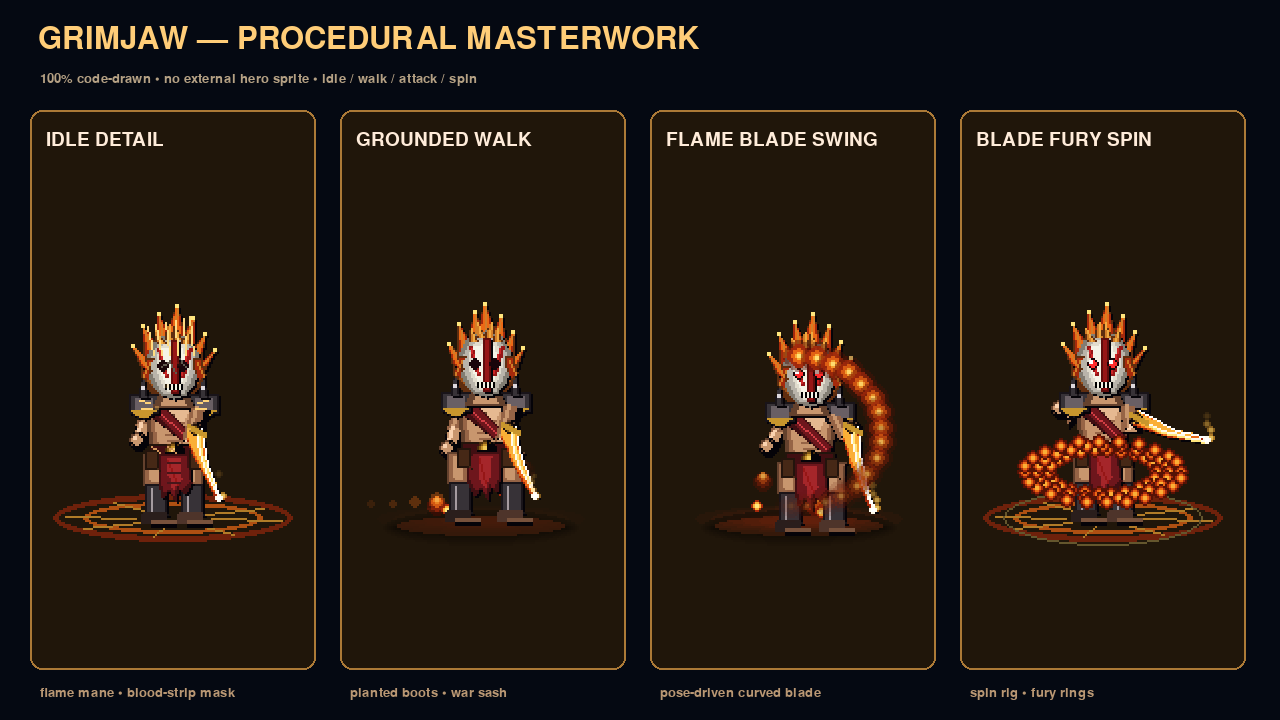
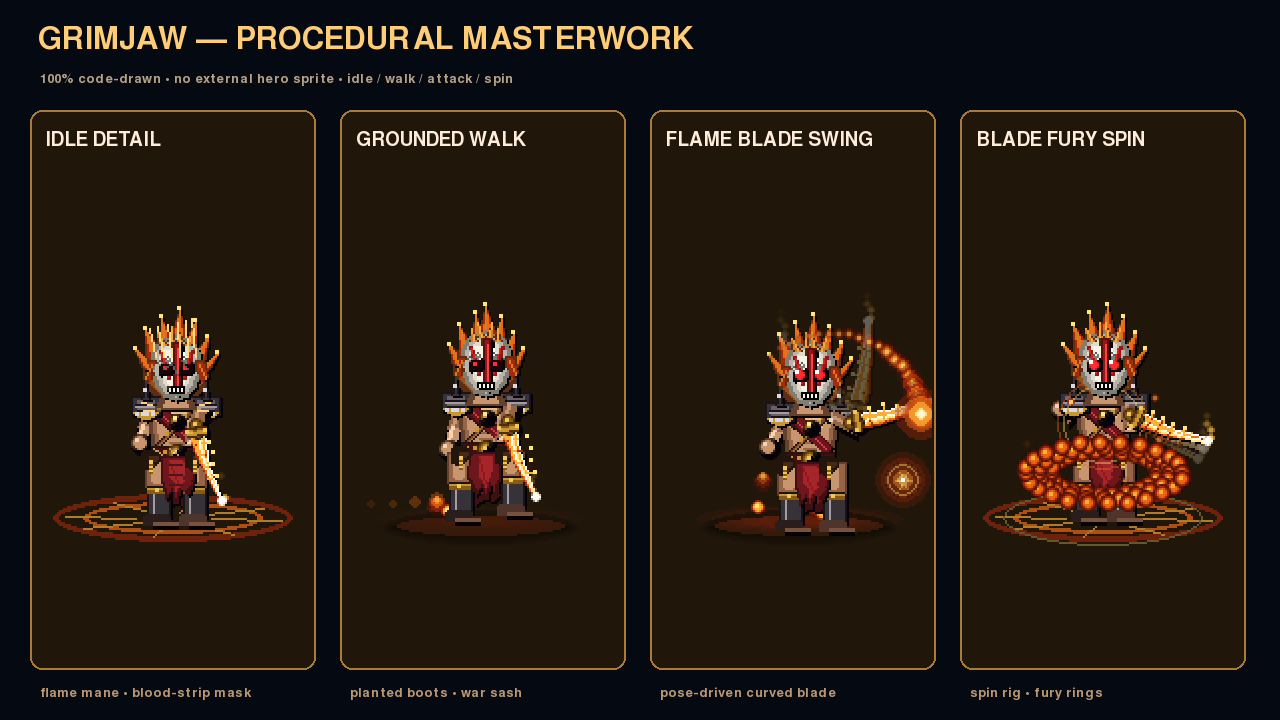
heroes/grimjaw: fix eye socket double-transform (mata + bbox 2x)
_draw_elite_mask menghitung y absolut (pt(ex,-30)) lalu memakainya
sebagai koordinat yang di-pt() lagi di dalam poly() - transformasi
ganda menjatuhkan rongga mata ~200 px di bawah mask. Akibatnya:
  * mata Grimjaw nyaris tidak terlihat (terpisah di bawah wajah), dan
  * bbox sprite ter-inflasi ~237 px -> hero Grimjaw dirender ~2x lebih
    besar dari hero lain (152x77 vs 75-84) sehingga test gornak
    'hero gornak H=82 vs grimjaw H=156' gagal.
Sekarang socket mata pakai offset lokal (-32/-33/-28/-27 di sekitar
local -30) sehingga mata menempel di wajah; sprite jadi 73x79, sejajar
keluarga. test_gornak_masterwork lulus penuh; test_grimjaw_masterwork,
test_grimjaw_swing_arah, test_hero_cache/hd_render/lighting, dan
referensi drakar/abaddon/morgath/level2 tetap hijau.

diff --git a/heroes/_bundle.py b/heroes/_bundle.py
@@ -1197,8 +1197,14 @@ class _NS_grimjaw:
         for ex in (-5, 5):
             x, y = pt(ex, -30)
             # Angular socket: a slanted diamond, wider toward the temple.
-            poly(p["dark_eye"], [(ex - f * 2, y - 2), (ex + f * 3, y - 3),
-                 (ex + f * 2, y + 2), (ex - f * 3, y + 3)])
+            # BUGFIX: `poly()` applies `pt()` to every coord it receives, so
+            # we must pass LOCAL offsets (centered on the eye at local -30),
+            # NOT the already-transformed absolute `y` above. Passing the
+            # absolute y re-transformed it and dropped the sockets ~200 px
+            # below the mask, which both hid Grimjaw's eyes and inflated his
+            # sprite bbox (hero rendered ~2x taller than every other hero).
+            poly(p["dark_eye"], [(ex - f * 2, -32), (ex + f * 3, -33),
+                 (ex + f * 2, -28), (ex - f * 3, -27)])
             if eyes_glow:
                 _NS_grimjaw._aacircle(surface, p["eye_glow"], (x, y), 2)
                 _NS_grimjaw._aacircle(surface, p["white"], (x - f, y - 1), 1)
